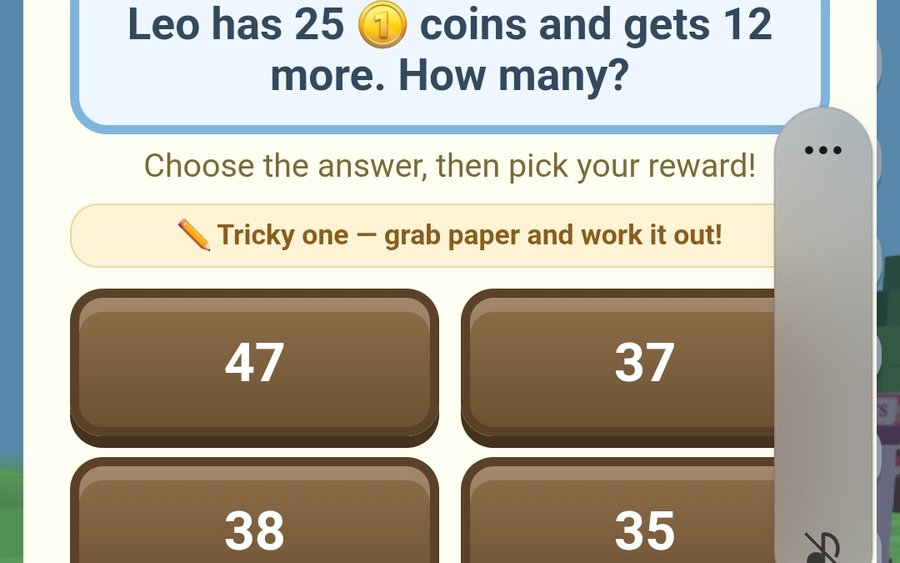
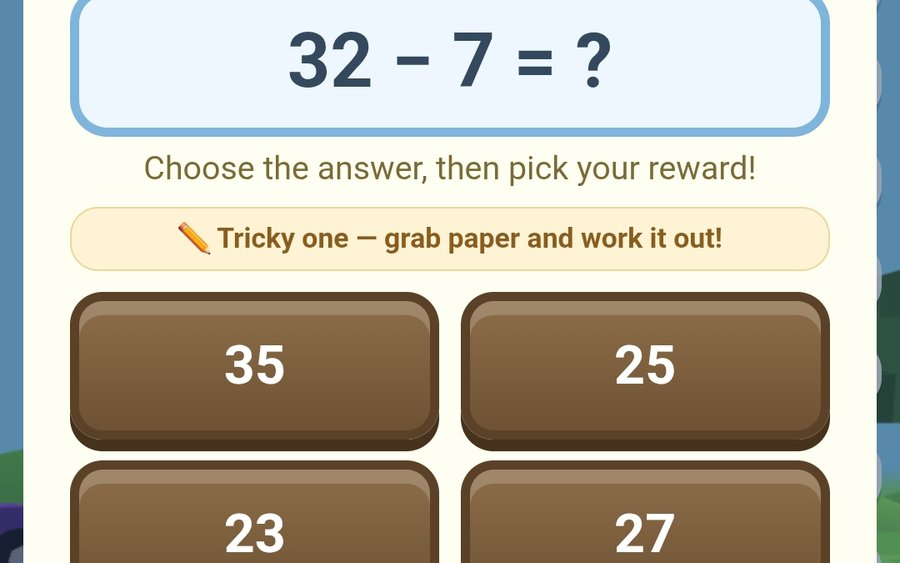
Fix dashboard bar fill (was inline span), clean math screenshot, gallery carousel
- The skill bars never showed their colored fill because the .fill span was display:inline
  (width/height ignored). Add display:block — now the accuracy bars actually render.
- Replace math.jpg with a clean shot (no volume scrubber).
- Homepage 'See it in action' gallery is now a swipeable carousel (scroll-snap) with
  prev/next arrows on desktop. SW cache v9 -> v10.

Claude-Session: https://claude.ai/code/session_019Y5Fi8mrFJ2LpJ94KzTimy

diff --git a/index.html b/index.html
@@ -97,9 +97,18 @@
   .pill.lock{background:#fff;color:#7a5c1e;border:1px solid #ecd89a}
 
   /* screenshot gallery (drop real images into /shots/ — placeholders show until then) */
-  .shots{display:grid;gap:18px;margin-top:40px;grid-template-columns:repeat(3,1fr)}
-  @media(max-width:820px){.shots{grid-template-columns:1fr 1fr}}
-  @media(max-width:520px){.shots{grid-template-columns:1fr}}
+  .shotsWrap{position:relative;margin-top:40px}
+  .shots{display:flex;gap:16px;overflow-x:auto;scroll-snap-type:x mandatory;padding:6px 2px 16px;-webkit-overflow-scrolling:touch}
+  .shots::-webkit-scrollbar{height:8px}
+  .shots::-webkit-scrollbar-thumb{background:#cfe0d3;border-radius:5px}
+  .shots::-webkit-scrollbar-track{background:transparent}
+  .shot{flex:0 0 min(440px,84%);scroll-snap-align:center}
+  .shotArrow{position:absolute;top:50%;transform:translateY(-50%);z-index:5;width:46px;height:46px;border-radius:50%;
+    border:none;cursor:pointer;background:rgba(255,255,255,.96);color:var(--green-600);font-size:26px;font-weight:700;
+    box-shadow:var(--shadow-sm);display:grid;place-items:center;line-height:1}
+  .shotArrow.prev{left:-4px}.shotArrow.next{right:-4px}
+  .shotArrow:active{transform:translateY(-50%) scale(.94)}
+  @media(max-width:700px){.shotArrow{display:none}}   /* phones swipe instead */
   .shot{position:relative;aspect-ratio:16/10;border-radius:20px;overflow:hidden;border:3px solid #fff;
     box-shadow:var(--shadow);background:linear-gradient(160deg,#8FD3F4,#CBEAB6);display:grid;place-items:center}
   .shot .ph{font-size:clamp(40px,7vw,58px);opacity:.92;z-index:0}
@@ -185,13 +194,17 @@
       <div class="eyebrow">See it in action</div>
       <h2 class="h2">A real 3D world your kid builds — by doing the work</h2>
       <p class="lead">Solve math, reading, spelling &amp; grammar to earn blocks and coins — then drive, build, and decorate.</p>
-      <div class="shots">
+      <div class="shotsWrap">
+      <button class="shotArrow prev" id="shotPrev" aria-label="Previous">&#8249;</button>
+      <div class="shots" id="shots">
         <figure class="shot"><span class="ph">🌍</span><img src="shots/world.jpg" alt="The bright 3D Stackadoo world" loading="lazy" onerror="this.remove()"><figcaption>Explore a bright 3D world</figcaption></figure>
         <figure class="shot"><span class="ph">➗</span><img src="shots/math.jpg" alt="A math problem with chunky answer blocks" loading="lazy" onerror="this.remove()"><figcaption>Solve math → earn blocks</figcaption></figure>
         <figure class="shot"><span class="ph">🚒</span><img src="shots/drive.jpg" alt="Driving the fire truck with sirens and lights" loading="lazy" onerror="this.remove()"><figcaption>Drive the fire truck — sirens &amp; lights</figcaption></figure>
         <figure class="shot"><span class="ph">🏠</span><img src="shots/build.jpg" alt="A decorated house the child built" loading="lazy" onerror="this.remove()"><figcaption>Build &amp; decorate your own house</figcaption></figure>
         <figure class="shot"><span class="ph">🎬</span><img src="shots/cinema.jpg" alt="The Grammar Cinema mini-game" loading="lazy" onerror="this.remove()"><figcaption>Grammar Cinema: fix the script</figcaption></figure>
         <figure class="shot"><span class="ph">📊</span><img src="shots/dashboard.jpg" alt="The grown-ups progress dashboard" loading="lazy" onerror="this.remove()"><figcaption>Parents see real progress</figcaption></figure>
+      </div>
+      <button class="shotArrow next" id="shotNext" aria-label="Next">&#8250;</button>
       </div>
       <div style="text-align:center;margin-top:26px"><a class="btn btn-play" id="seePlay">▶ Play Free Now</a></div>
     </div>
@@ -320,6 +333,14 @@
     var el = document.getElementById(id); if (el) el.href = GAME_URL;
   });
   document.getElementById('yr').textContent = new Date().getFullYear();
+  // Screenshot carousel arrows (desktop) — scroll one tile per click.
+  (function(){
+    var sh = document.getElementById('shots'); if (!sh) return;
+    function step(){ var t = sh.querySelector('.shot'); return (t ? t.getBoundingClientRect().width : 300) + 16; }
+    var p = document.getElementById('shotPrev'), n = document.getElementById('shotNext');
+    if (p) p.onclick = function(){ sh.scrollBy({ left: -step(), behavior: 'smooth' }); };
+    if (n) n.onclick = function(){ sh.scrollBy({ left:  step(), behavior: 'smooth' }); };
+  })();
 </script>
 </body>
 </html>

diff --git a/play.html b/play.html
@@ -404,7 +404,7 @@
   .guBar { display:flex; align-items:center; gap:8px; margin:3px 0; font-size:clamp(12px,2vw,15px); color:#3b4a5e; }
   .guBar .lab { width:38%; text-align:right; }
   .guBar .track { flex:1; height:14px; background:#e2e8f0; border-radius:7px; overflow:hidden; }
-  .guBar .fill { height:100%; background:linear-gradient(90deg,#69d05c,#3f9d34); border-radius:7px; }
+  .guBar .fill { display:block; height:100%; background:linear-gradient(90deg,#69d05c,#3f9d34); border-radius:7px; }
   .guBar .num { width:62px; font-weight:bold; text-align:right; font-variant-numeric:tabular-nums; }
   .guScore { display:flex; align-items:center; gap:8px; flex-wrap:wrap; font-size:clamp(15px,2.6vw,19px); font-weight:bold; color:#7a5b00; background:#FFF6D8; border:1px solid #f0d98a; border-radius:10px; padding:7px 11px; margin:4px 0 8px; }
   .guScore .today { font-size:0.8em; color:#2f8a52; }

diff --git a/sw.js b/sw.js
@@ -2,7 +2,7 @@
    Strategy: NETWORK-FIRST (try the network, fall back to cache offline). This means a
    normal reload always picks up the latest version while you're online, and the game
    still works with no Wi-Fi. Saves live in localStorage and are untouched by this. */
-const CACHE = 'stackadoo-v9';
+const CACHE = 'stackadoo-v10';
 
 self.addEventListener('install', () => self.skipWaiting());
 self.addEventListener('activate', e => e.waitUntil(